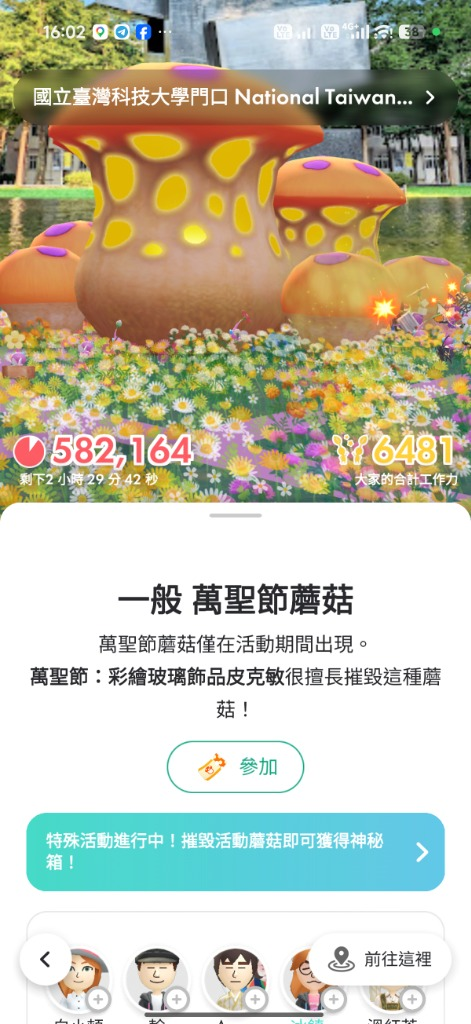
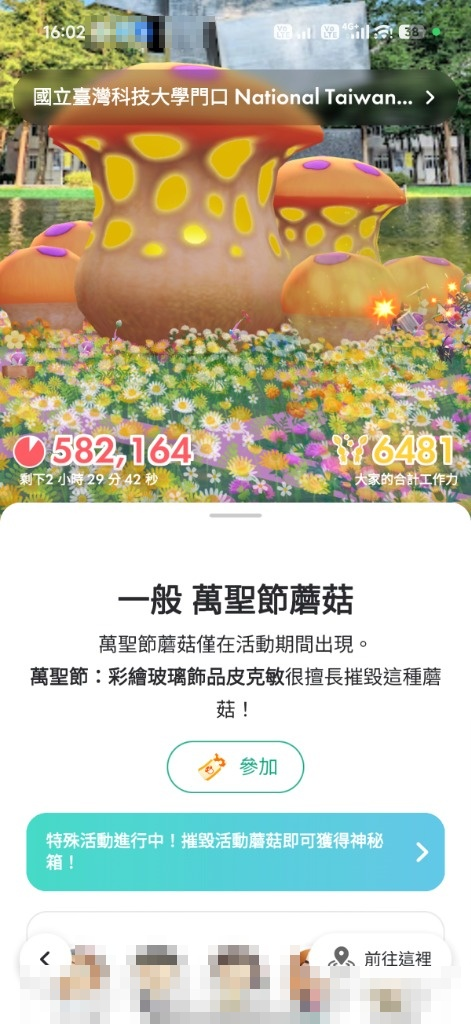
fix(privacy):全面打碼去個資 - 遮蔽教學截圖好友名冊、系統通知與地址門牌

diff --git a/菇點教學素材_GoogleMap/README.md b/菇點教學素材_GoogleMap/README.md
@@ -1,0 +1,54 @@
+# 【教學】透過 Google 地圖秒抓香菇 GPS 點位，一鍵分享至 GeoSim 精準打菇！
+
+## 🎯 教學目標與核心情境
+- **適用對象**：Pikmin Bloom 新手玩家、跨國/遠距打菇玩家。
+- **痛點解決**：遠處香菇看得到打不到、外國地標拼不出來、手動輸座標太慢。
+- **神技流程**：利用遊戲內建「前往這裡」喚起 Google 地圖，透過 Android 原生系統「分享」一鍵丟給 GeoSim，經緯度秒代入、直達香菇正下方！
+
+---
+
+## 📸 圖文步驟對照（圖片均已放在本資料夾）
+
+### 第一步：點開香菇，按右下角「前往這裡」
+- **說明**：在遊戲地圖中點開你想打的那顆遠處香菇，查看畫面右下角，點擊「📍 前往這裡」按鈕。
+- **對應圖片**：step1_前往這裡.jpg
+
+---
+
+### 第二步：點選「在地圖應用程式開啟」
+- **說明**：點擊後底部彈出選單，直接選擇「在地圖應用程式開啟」，手機系統會自動啟動 Google 地圖。
+- **對應圖片**：step2_在地圖應用程式開啟.jpg
+
+---
+
+### 第三步：在 Google 地圖中點擊「分享」
+- **說明**：Google 地圖開啟後，已經精準釘選出該香菇在現實世界的官方真實 GPS 座標點位。點擊地標資訊卡上的「分享」按鈕。
+- **對應圖片**：step3_Google地圖點分享.jpg
+
+---
+
+### 第四步：分享清單直接點「GeoSim」秒飛！
+- **說明**：在彈出的 Android 系統分享清單中，直接點選「GeoSim」。系統會自動跳轉喚醒 GeoSim，且香菇的經緯度座標已自動帶入、地圖已鎖定目標！只要點擊「換點」（或移動過去），再切回遊戲，你的人就已經完美站在香菇正下方了！
+- **對應圖片**：step4_分享選GeoSim秒飛.jpg
+
+---
+
+## 🛡 新手安全指南（冷卻時間 CD 法則）
+- **同城短距移動（數百公尺至數公里）**：建議換點後稍候 1~3 分鐘再開打。
+- **跨國長途飛行（例如台灣飛往德國）**：請務必遵守 2 小時冷卻時間（CD）法則。抵達後不要立刻進行採集或打菇，靜候 CD 結束再送出皮克敏，確保帳號安全！
+
+---
+
+## 💻 網站資料庫與靜態路徑配置現況（供 Agent 參考）
+
+1. **資料來源**：
+   - pp/src/data/tips.json 頂部已新增此篇設定，slug 為 geosim-google-maps-mushroom-guide。
+2. **Web 圖片存放路徑**：
+   - pp/public/images/tips/mushroom-detail-nav.jpg
+   - pp/public/images/tips/mushroom-open-maps-menu.jpg
+   - pp/public/images/tips/google-maps-location-view.jpg
+   - pp/public/images/tips/share-to-geosim-sheet.jpg
+3. **本地打包結果**：
+   - pp/dist/tips/geosim-google-maps-mushroom-guide/index.html 已成功產出。
+4. **Git 狀態**：
+   - 已經 commit 並 push 到 origin main (kevycheng/kairosVector_web) 與 ackup main (kairosvector/kairosvector.github.io)。
